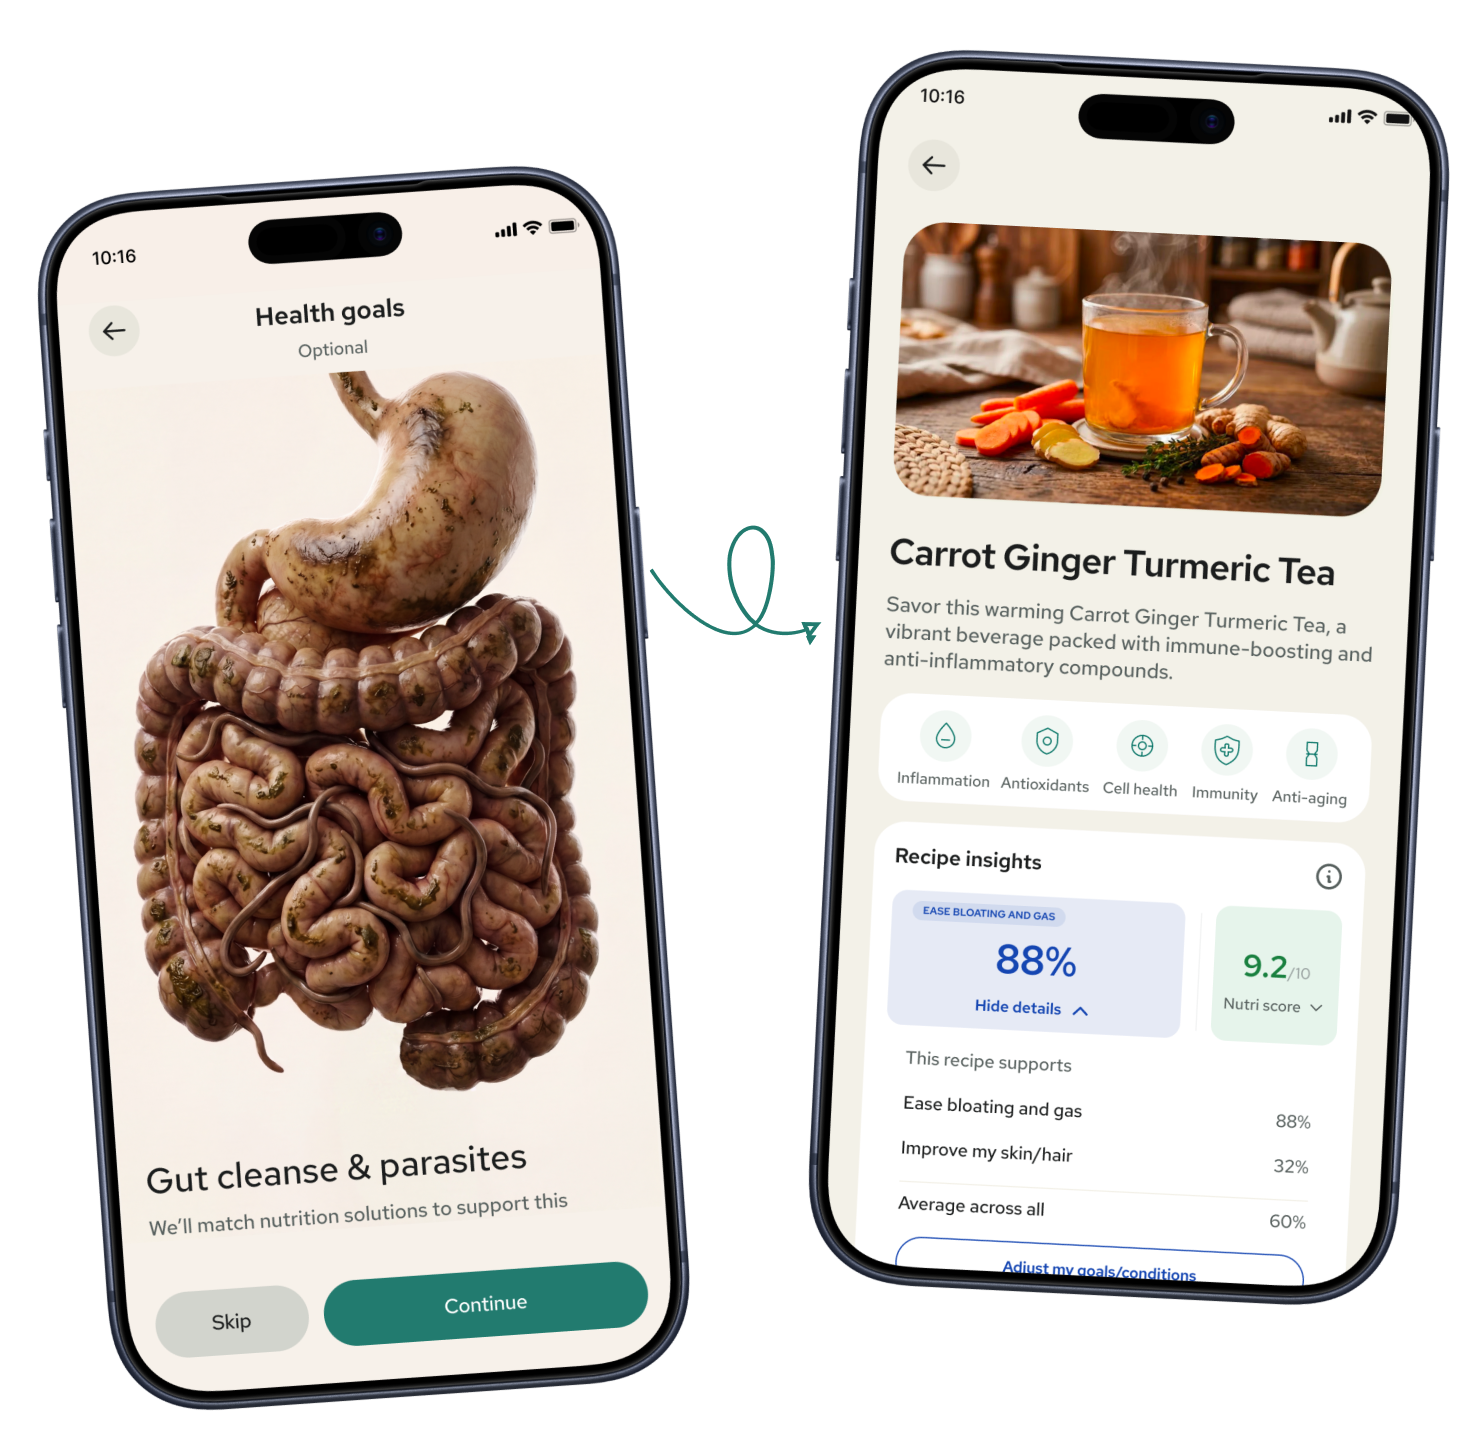
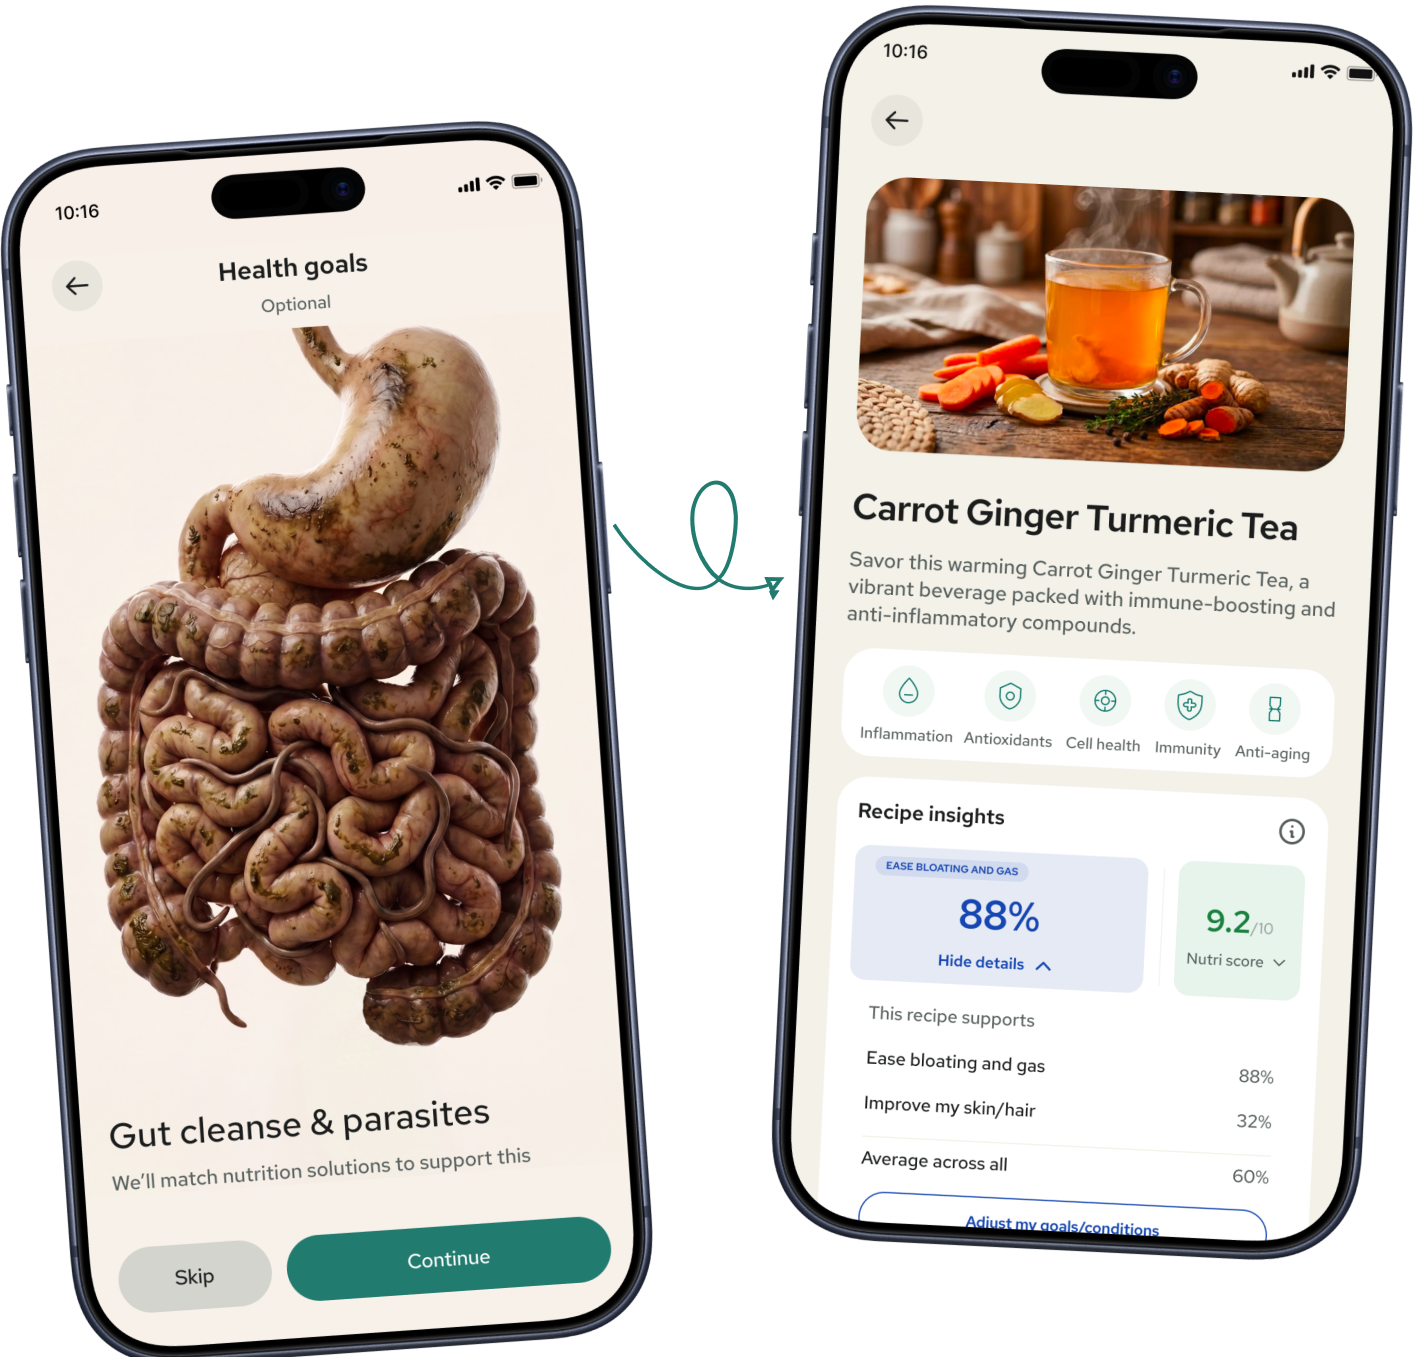
bottom sheet

diff --git a/components/ui/bottom-sheet.tsx b/components/ui/bottom-sheet.tsx
@@ -1,0 +1,64 @@
+"use client";
+
+import * as React from "react";
+import { Drawer as DrawerPrimitive } from "vaul";
+
+import { cn } from "@/lib/utils";
+import { useKeyboardOffset } from "@/hooks/use-keyboard-offset";
+
+interface BottomSheetProps
+  extends React.ComponentProps<typeof DrawerPrimitive.Content> {
+  open: boolean;
+  onOpenChange: (open: boolean) => void;
+  zIndex?: number;
+  showHandle?: boolean;
+}
+
+export function BottomSheet({
+  open,
+  onOpenChange,
+  zIndex = 30,
+  showHandle = true,
+  className,
+  children,
+  ...props
+}: BottomSheetProps) {
+  const keyboardOffset = useKeyboardOffset(open);
+
+  return (
+    <DrawerPrimitive.Root
+      open={open}
+      onOpenChange={onOpenChange}
+      repositionInputs={false}
+    >
+      <DrawerPrimitive.Portal>
+        <DrawerPrimitive.Overlay
+          className="fixed inset-0 bg-black/50 data-[state=open]:animate-in data-[state=closed]:animate-out data-[state=closed]:fade-out-0 data-[state=open]:fade-in-0"
+          style={{ zIndex }}
+        />
+        <DrawerPrimitive.Content
+          data-slot="bottom-sheet-content"
+          className={cn(
+            "bg-background fixed inset-x-0 bottom-0 flex max-h-[92dvh] flex-col rounded-t-4xl shadow-lg outline-none",
+            className,
+          )}
+          style={{ zIndex: zIndex + 1 }}
+          {...props}
+        >
+          {showHandle && (
+            <div className="mx-auto mt-3 h-1.5 w-10 shrink-0 rounded-full bg-muted" />
+          )}
+          <div
+            className="flex min-h-0 flex-1 flex-col pb-safe transition-transform duration-300 ease-out"
+            style={{
+              transform:
+                keyboardOffset > 0 ? `translateY(-${keyboardOffset}px)` : undefined,
+            }}
+          >
+            {children}
+          </div>
+        </DrawerPrimitive.Content>
+      </DrawerPrimitive.Portal>
+    </DrawerPrimitive.Root>
+  );
+}

diff --git a/hooks/use-keyboard-offset.ts b/hooks/use-keyboard-offset.ts
@@ -1,0 +1,33 @@
+"use client";
+
+import { useEffect, useState } from "react";
+
+export function useKeyboardOffset(active: boolean) {
+  const [offset, setOffset] = useState(0);
+
+  useEffect(() => {
+    if (!active) return;
+    const visualViewport = window.visualViewport;
+    if (!visualViewport) return;
+
+    const update = () => {
+      const hiddenByKeyboard = Math.max(
+        0,
+        window.innerHeight - visualViewport.height - visualViewport.offsetTop,
+      );
+      setOffset(Math.round(hiddenByKeyboard));
+    };
+
+    update();
+    visualViewport.addEventListener("resize", update);
+    visualViewport.addEventListener("scroll", update);
+    window.addEventListener("orientationchange", update);
+    return () => {
+      visualViewport.removeEventListener("resize", update);
+      visualViewport.removeEventListener("scroll", update);
+      window.removeEventListener("orientationchange", update);
+    };
+  }, [active]);
+
+  return offset;
+}

diff --git a/app/layout.tsx b/app/layout.tsx
@@ -76,6 +76,7 @@ export const viewport: Viewport = {
   initialScale: 1,
   maximumScale: 1,
   userScalable: false,
+  interactiveWidget: "resizes-content",
 };
 
 export default async function RootLayout({
